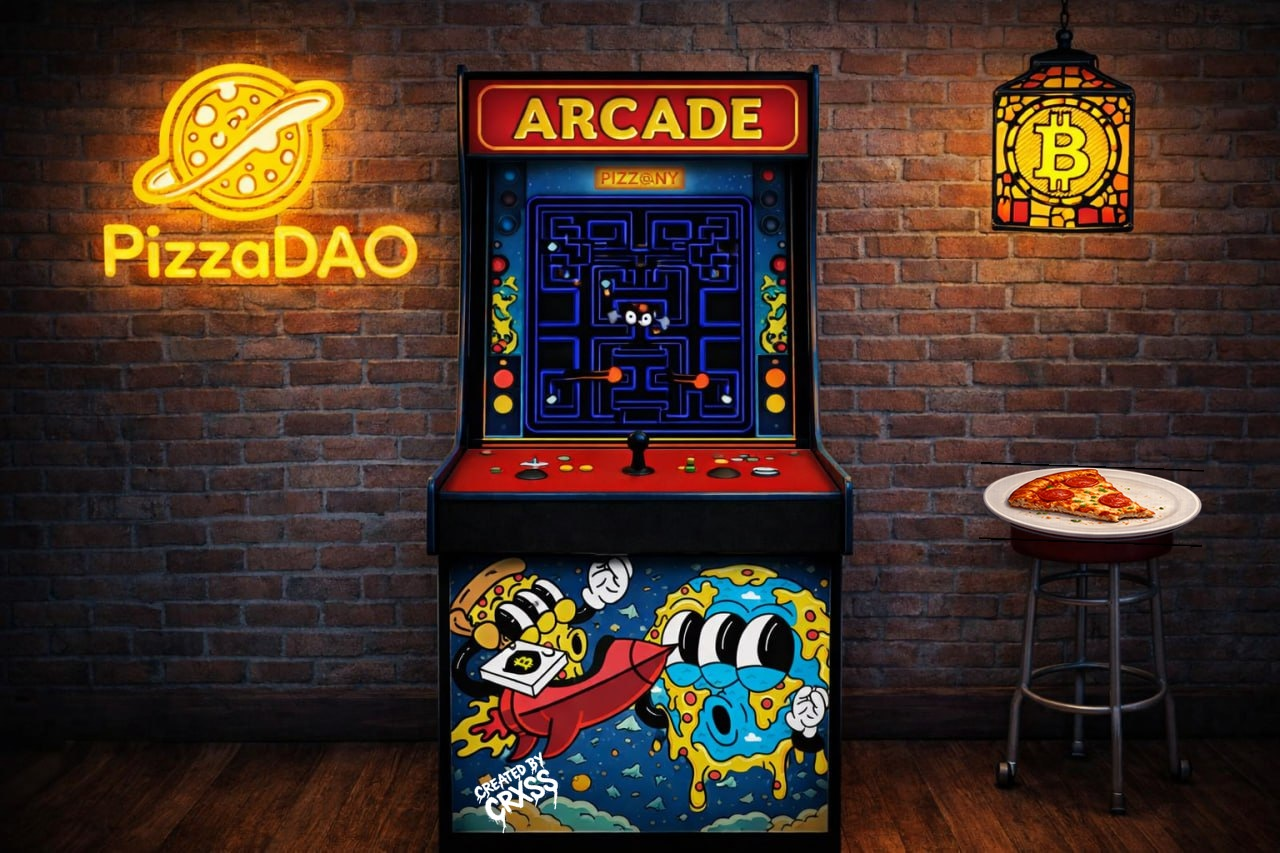
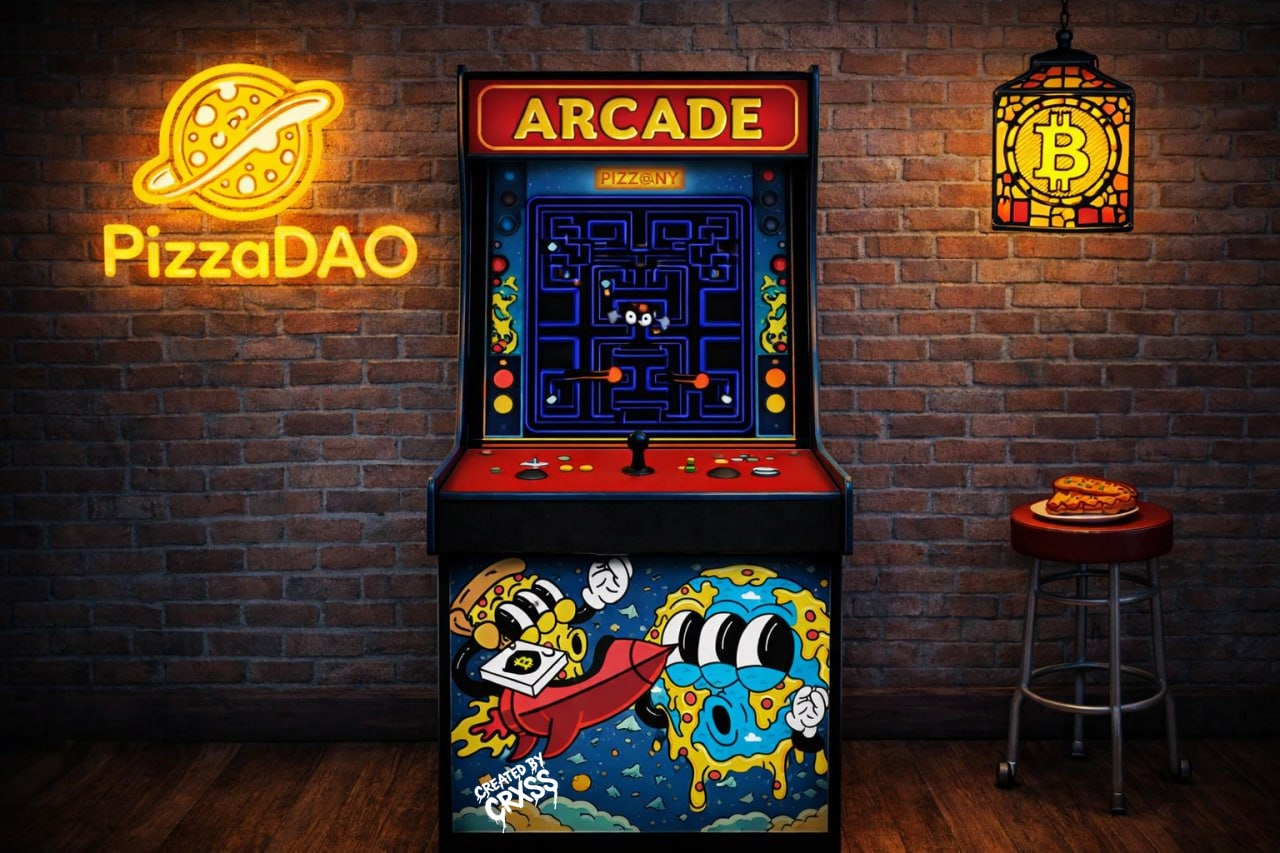
fix: pizza as CSS overlay with perspective, only CRXSS baked into JPG

Changed region(s): [[0.75, 0.5487, 0.9375, 0.6401]]

diff --git a/app/pizzadao/arcade/page.tsx b/app/pizzadao/arcade/page.tsx
@@ -21,6 +21,7 @@ const L = {
   screen:   { left: 37.7667, top: 19.8999, width: 24.6333, height: 31.5969 },
   joystick: { left: 49.0,    top: 50.3967, width: 1.7,     height: 5.25 },
   button:   { left: 56.0417, top: 59.3428, width: 10.9344, height: 5.7158 },
+  pizza:    { left: 76.5688, top: 54.7129, width: 17.4251, height: 9.0285, rx: -47, ry: 1.5, rz: 2 },
   crxss:    { left: 37.4628, top: 89.6998, width: 6.4685,  height: 4.8435, rotate: -28.5 }
 };
 
@@ -72,6 +73,10 @@ export default function PizzaDaoArcadePage() {
         <div className={styles.joystickOverlay} style={{ left: `${L.joystick.left}%`, top: `${L.joystick.top}%`, width: `${L.joystick.width}%`, height: `${L.joystick.height}%` }} aria-hidden>
           <span className={styles.joystickStem} />
           <span className={styles.joystickKnob} />
+        </div>
+
+        <div className={styles.pizzaOverlay} style={{ left: `${L.pizza.left}%`, top: `${L.pizza.top}%`, width: `${L.pizza.width}%`, height: `${L.pizza.height}%`, transform: `perspective(900px) rotateX(${L.pizza.rx}deg) rotateY(${L.pizza.ry}deg) rotateZ(${L.pizza.rz}deg)`, transformOrigin: '50% 50%' }}>
+          <img src={withBase("/pizzadao/stool-pizza-v2.png")} alt="Pizza plate" className={styles.pizzaImage} />
         </div>
 
         <button className={styles.enterButton} style={{ left: `${L.button.left}%`, top: `${L.button.top}%`, width: `${L.button.width}%`, height: `${L.button.height}%` }} onClick={onEnter} aria-label="Start">

diff --git a/app/pizzadao/arcade/page.module.css b/app/pizzadao/arcade/page.module.css
@@ -108,6 +108,19 @@
   display: block;
 }
 
+.pizzaOverlay {
+  position: absolute;
+  z-index: 10;
+  pointer-events: none;
+}
+
+.pizzaImage {
+  width: 100%;
+  height: 100%;
+  object-fit: contain;
+  display: block;
+}
+
 .crxssHotspot {
   position: absolute;
   z-index: 6;
